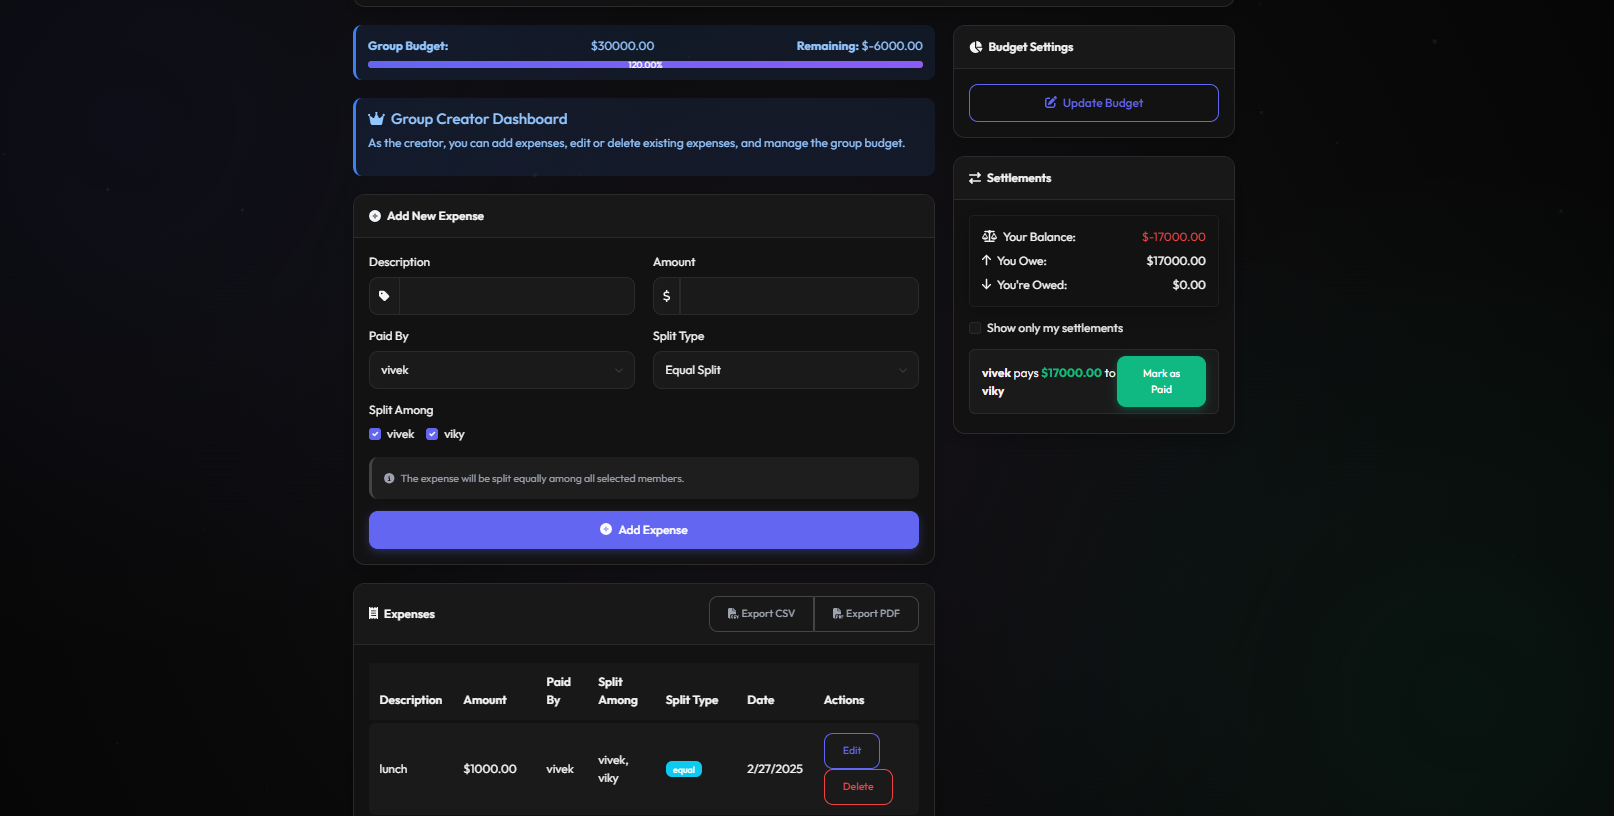
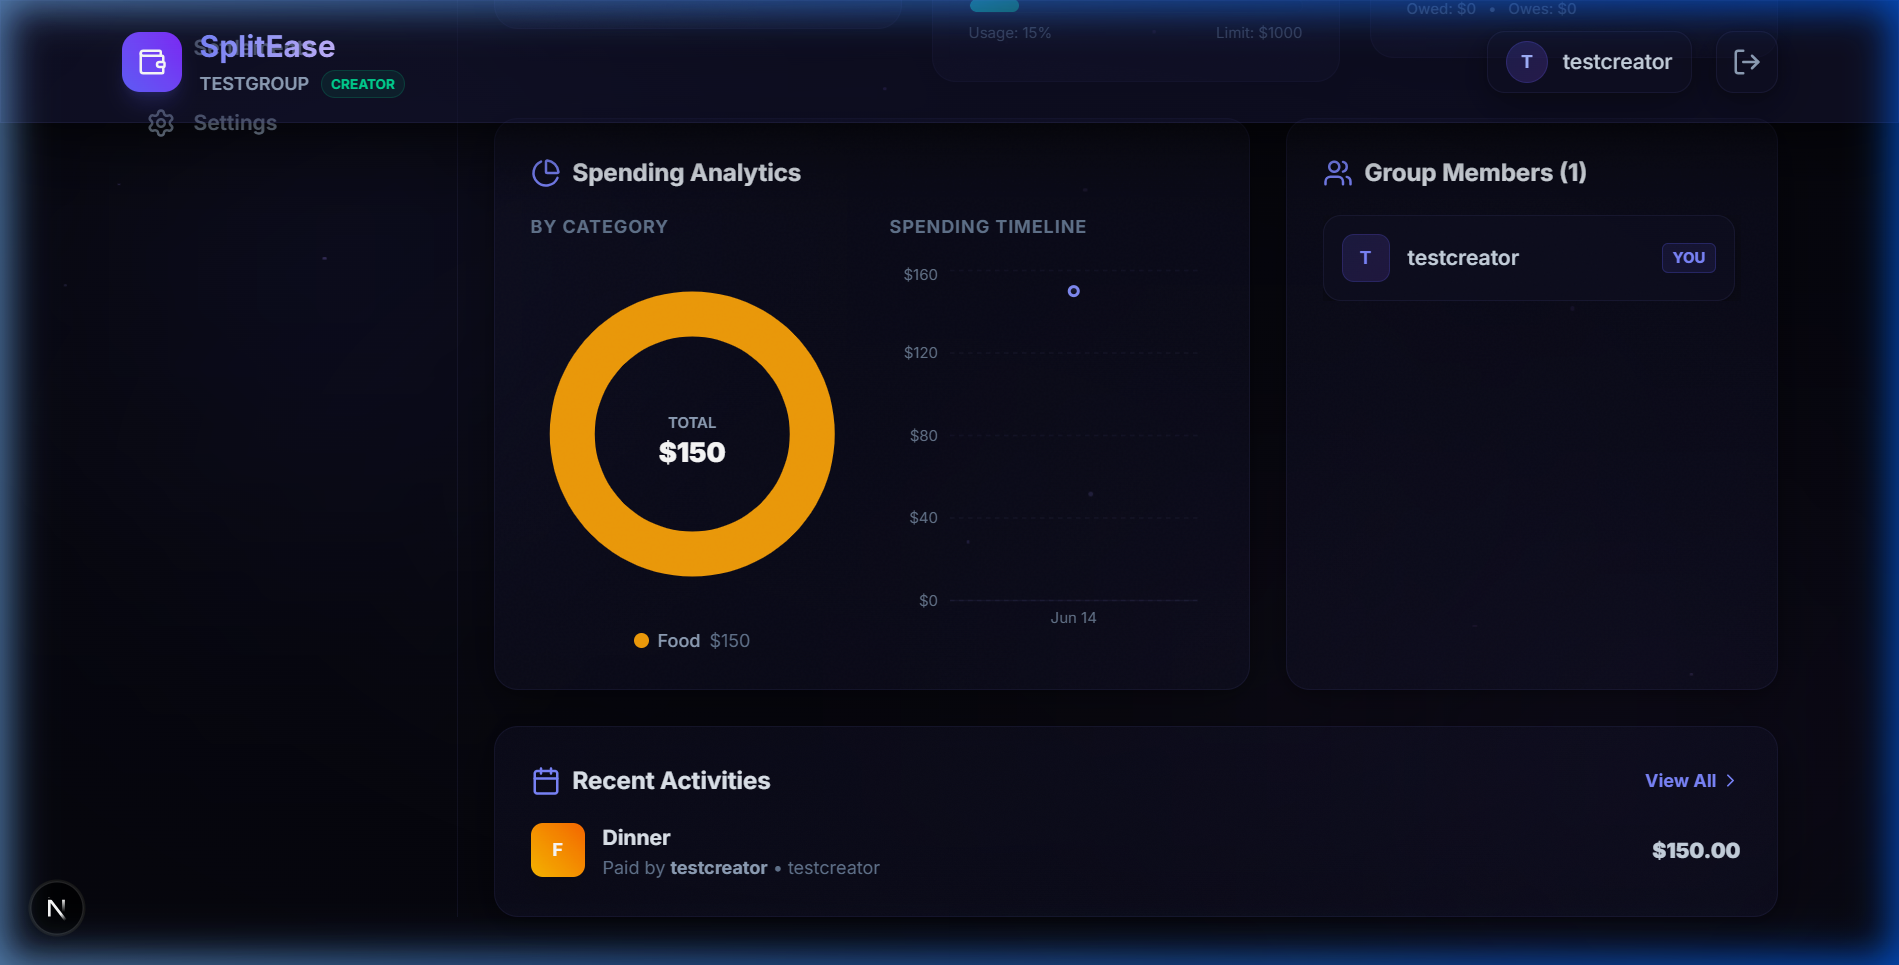
docs: update screenshots and README with the new redesigned UI elements and flow animation

diff --git a/README.md b/README.md
@@ -73,6 +73,37 @@ We implemented a zero-dependency in-memory sliding window rate limiter (with LRU
 
 ---
 
+## 🎮 Screenshots & Visual Demos
+
+<div align="center">
+  <h3>1️⃣ Interactive Dashboard & Spatial Analytics</h3>
+  <p>Track group balances, categorize expenses dynamically with Recharts, and review the recent activity feed.</p>
+  <img src="./screenshots/home.png" width="750" style="border-radius: 10px; margin-bottom: 25px; box-shadow: 0 4px 30px rgba(0, 0, 0, 0.5);" alt="SplitEase Dashboard">
+
+  <h3>2️⃣ Create or Join Group (3D Glassmorphism Interface)</h3>
+  <p>Dynamic 3D-tilt interaction, animated ambient floating gradient orbs, and clean setup wizard.</p>
+  <img src="./screenshots/welcome.png" width="750" style="border-radius: 10px; margin-bottom: 25px; box-shadow: 0 4px 30px rgba(0, 0, 0, 0.5);" alt="SplitEase Landing & Auth">
+
+  <h3>3️⃣ Staggered Expense Log & Settlement Tracking</h3>
+  <p>Browse individual ledger entries with spring reveals, view optimized payment paths, and settle balances instantly.</p>
+  <img src="./screenshots/expenses.png" width="750" style="border-radius: 10px; margin-bottom: 25px; box-shadow: 0 4px 30px rgba(0, 0, 0, 0.5);" alt="SplitEase Expense Log">
+  <img src="./screenshots/settlements.png" width="750" style="border-radius: 10px; margin-bottom: 25px; box-shadow: 0 4px 30px rgba(0, 0, 0, 0.5);" alt="SplitEase Settlements">
+
+  <h3>4️⃣ Custom Budget Alerts & Admin Controls</h3>
+  <p>Configure custom budget ceilings and add percentage alert triggers to control spending limits.</p>
+  <img src="./screenshots/settings.png" width="750" style="border-radius: 10px; margin-bottom: 25px; box-shadow: 0 4px 30px rgba(0, 0, 0, 0.5);" alt="SplitEase Budget settings">
+
+  <h3>5️⃣ Spring Action Add-Expense Drawer</h3>
+  <p>Physics-based scale adjustments for quick, custom splitting among members.</p>
+  <img src="./screenshots/add_expense.png" width="750" style="border-radius: 10px; margin-bottom: 25px; box-shadow: 0 4px 30px rgba(0, 0, 0, 0.5);" alt="SplitEase Add Expense Drawer">
+
+  <h3>🎥 Full UI Flow Walkthrough</h3>
+  <p>Floating orbs, number counters counting from 0 to target, and page tabs switching smoothly.</p>
+  <img src="./screenshots/ui_flow.webp" width="750" style="border-radius: 10px; margin-bottom: 25px;" alt="SplitEase UI Recording">
+</div>
+
+---
+
 ## 🚀 Setup & Installation
 
 ### Prerequisites